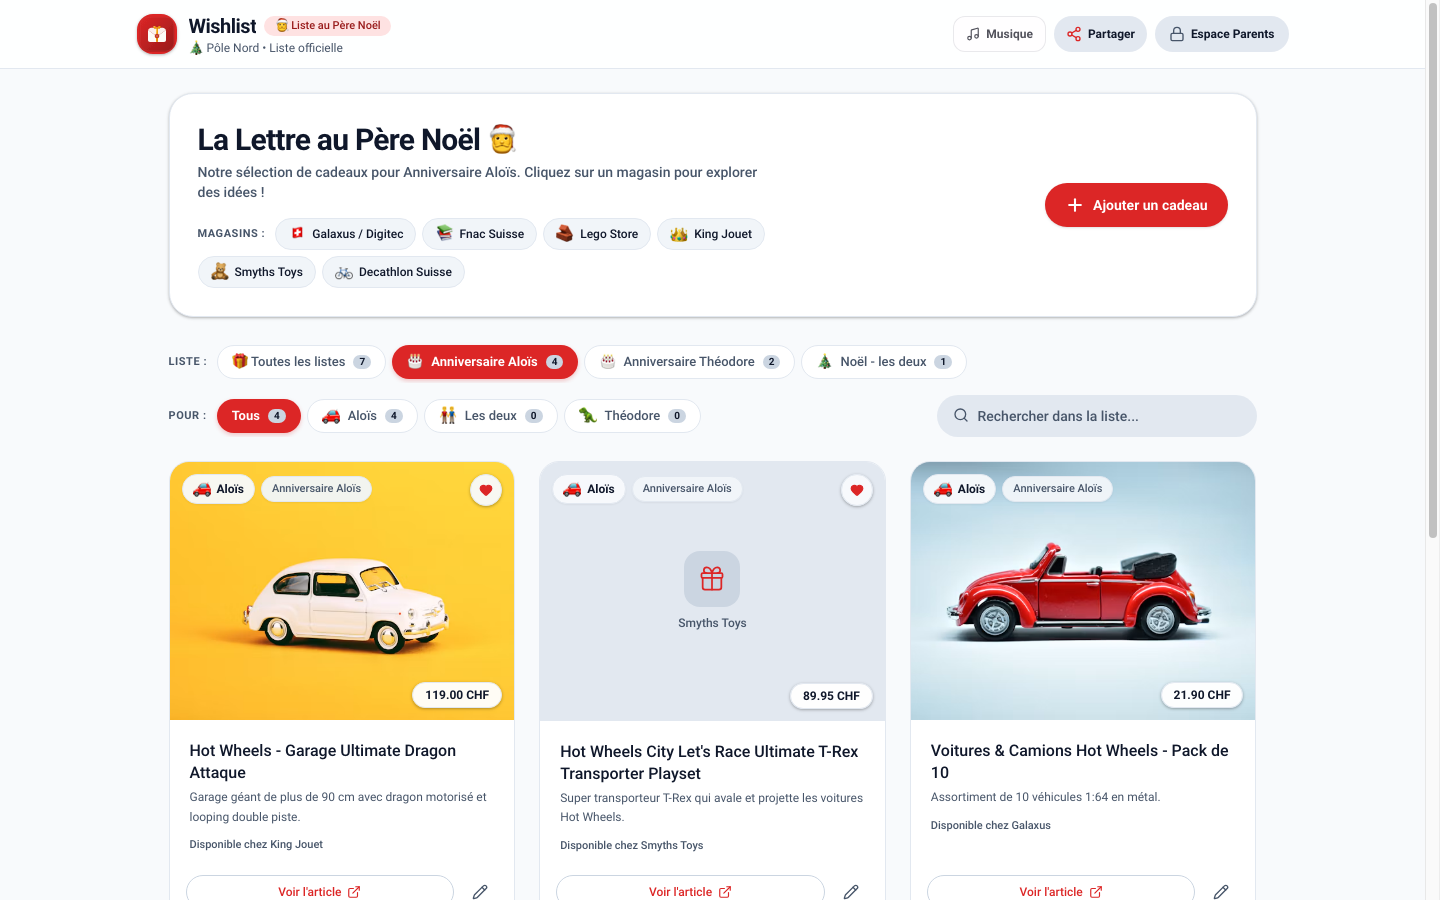
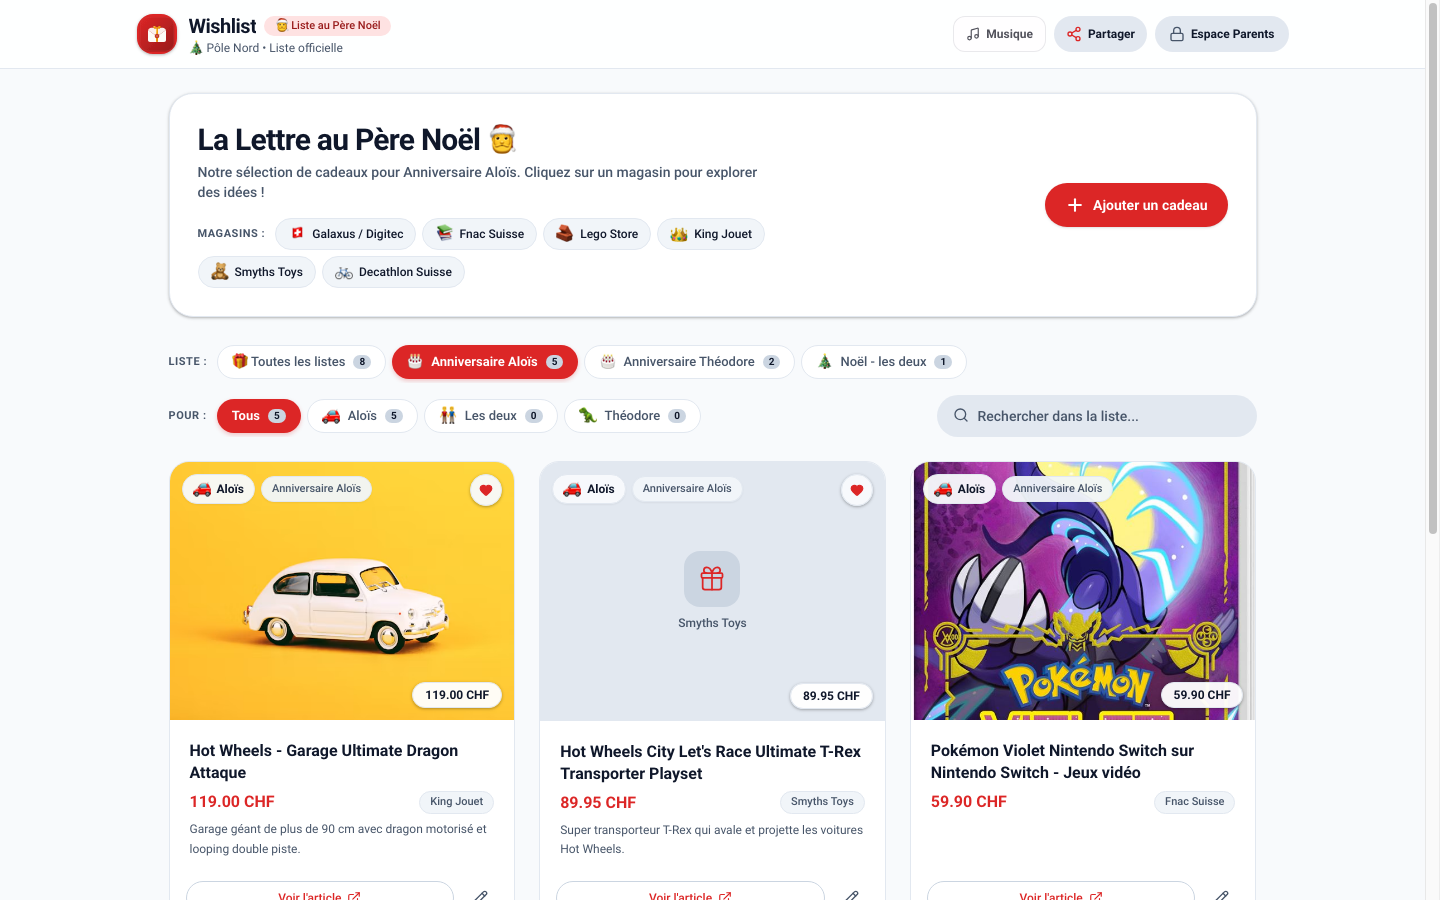
fix(shared): position reserved items at bottom and display prominent prices across all cards

diff --git a/src/app/partage/[token]/page.tsx b/src/app/partage/[token]/page.tsx
@@ -75,6 +75,13 @@ export default function FamilySharePage({ params }: { params: Promise<{ token: s
     return matchChild && matchOccasion;
   });
 
+  // Put non-reserved items first, reserved items below
+  const isGiftReserved = (g: Gift) =>
+    g.status === 'reserved' || g.status === 'bought' || g.status === 'received' || Boolean(g.reserved_by);
+
+  const availableGifts = filteredGifts.filter((g) => !isGiftReserved(g));
+  const reservedGifts = filteredGifts.filter((g) => isGiftReserved(g));
+
   if (loading) {
     return (
       <div className="min-h-screen flex items-center justify-center p-4">
@@ -185,20 +192,30 @@ export default function FamilySharePage({ params }: { params: Promise<{ token: s
           </div>
         </div>
 
-        {/* Gift Grid */}
-        {filteredGifts.length > 0 ? (
-          <div className="grid grid-cols-1 sm:grid-cols-2 lg:grid-cols-3 gap-6">
-            {filteredGifts.map((gift) => (
-              <GiftCard
-                key={gift.id}
-                gift={gift}
-                mode="family"
-                onReserveClick={(g) => setSelectedGiftToReserve(g)}
-                onUnreserveClick={handleUnreserve}
-              />
-            ))}
+        {/* Available Gifts Section (Non-réservés en premier) */}
+        {availableGifts.length > 0 ? (
+          <div className="space-y-4">
+            <div className="flex items-center justify-between">
+              <span className="text-xs font-semibold text-[var(--md-sys-color-on-surface-variant)] uppercase tracking-wider">
+                🎁 Idées cadeaux disponibles ({availableGifts.length})
+              </span>
+              <span className="text-xs text-emerald-800 dark:text-emerald-300 font-medium hidden sm:inline">
+                Cliquez sur « Je m&apos;en occupe » pour choisir
+              </span>
+            </div>
+            <div className="grid grid-cols-1 sm:grid-cols-2 lg:grid-cols-3 gap-6">
+              {availableGifts.map((gift) => (
+                <GiftCard
+                  key={gift.id}
+                  gift={gift}
+                  mode="family"
+                  onReserveClick={(g) => setSelectedGiftToReserve(g)}
+                  onUnreserveClick={handleUnreserve}
+                />
+              ))}
+            </div>
           </div>
-        ) : (
+        ) : filteredGifts.length === 0 ? (
           <div className="bg-white dark:bg-zinc-900 rounded-3xl p-12 text-center max-w-md mx-auto space-y-3 border border-zinc-200/80 dark:border-zinc-800 shadow-xs">
             <div className="w-14 h-14 rounded-2xl bg-zinc-100 dark:bg-zinc-800 text-zinc-400 flex items-center justify-center mx-auto">
               <GiftIcon className="w-6 h-6 stroke-[1.5]" />
@@ -209,6 +226,44 @@ export default function FamilySharePage({ params }: { params: Promise<{ token: s
             <p className="text-xs text-zinc-500 dark:text-zinc-400">
               Les parents ajouteront bientôt les envies pour cette occasion.
             </p>
+          </div>
+        ) : (
+          <div className="p-6 rounded-2xl bg-emerald-500/10 border border-emerald-500/20 text-center space-y-1">
+            <p className="text-sm font-bold text-emerald-900 dark:text-emerald-200">
+              🎉 Tous les cadeaux de cette sélection sont déjà réservés !
+            </p>
+            <p className="text-xs text-emerald-800/80 dark:text-emerald-300/80">
+              Merci à toute la famille pour votre générosité. Retrouvez le détail des réservations ci-dessous.
+            </p>
+          </div>
+        )}
+
+        {/* Reserved Gifts Section (Réservés placés EN DESSOUS) */}
+        {reservedGifts.length > 0 && (
+          <div className="pt-8 border-t border-[var(--md-sys-color-outline-variant)] space-y-4">
+            <div className="flex flex-col sm:flex-row sm:items-center justify-between gap-1">
+              <div className="flex items-center gap-2">
+                <span className="w-2.5 h-2.5 rounded-full bg-emerald-700" />
+                <h3 className="text-xs font-semibold text-[var(--md-sys-color-on-surface-variant)] uppercase tracking-wider">
+                  Cadeaux déjà réservés ({reservedGifts.length})
+                </h3>
+              </div>
+              <span className="text-xs text-[var(--md-sys-color-on-surface-variant)] opacity-70">
+                Ces cadeaux ont déjà trouvé leur Père Noël
+              </span>
+            </div>
+
+            <div className="grid grid-cols-1 sm:grid-cols-2 lg:grid-cols-3 gap-6 opacity-85">
+              {reservedGifts.map((gift) => (
+                <GiftCard
+                  key={gift.id}
+                  gift={gift}
+                  mode="family"
+                  onReserveClick={(g) => setSelectedGiftToReserve(g)}
+                  onUnreserveClick={handleUnreserve}
+                />
+              ))}
+            </div>
           </div>
         )}
       </main>

diff --git a/src/components/GiftCard.tsx b/src/components/GiftCard.tsx
@@ -26,6 +26,20 @@ export default function GiftCard({
 }: GiftCardProps) {
   const [imageError, setImageError] = useState(false);
 
+  // Safe price calculation (handles number, string, null, undefined)
+  const rawPrice = gift.price;
+  let numericPrice: number | null = null;
+  if (typeof rawPrice === 'number' && !isNaN(rawPrice)) {
+    numericPrice = rawPrice;
+  } else if (typeof rawPrice === 'string' && (rawPrice as string).trim() !== '') {
+    const p = parseFloat((rawPrice as string).replace(',', '.').replace(/[^0-9.]/g, ''));
+    if (!isNaN(p)) numericPrice = p;
+  }
+  const currency = gift.currency || 'CHF';
+  const formattedPrice = numericPrice !== null && numericPrice > 0
+    ? `${numericPrice.toFixed(2)} ${currency}`
+    : null;
+
   const statusBadge = () => {
     switch (gift.status) {
       case 'bought':
@@ -103,20 +117,50 @@ export default function GiftCard({
             </div>
           )}
 
-          {/* Price Tag Chip */}
-          {gift.price !== null && gift.price !== undefined && (
-            <div className="absolute bottom-3 right-3 px-3 py-1 rounded-full bg-[var(--md-sys-color-surface-container-lowest)]/95 text-[var(--md-sys-color-on-surface)] text-xs font-semibold shadow-[var(--md-elevation-1)] border border-[var(--md-sys-color-outline-variant)]">
-              {gift.price.toFixed(2)} {gift.currency}
+          {/* Price Tag Chip on Image */}
+          {formattedPrice && (
+            <div className="absolute bottom-3 right-3 px-3 py-1 rounded-full bg-[var(--md-sys-color-surface-container-lowest)]/95 text-[var(--md-sys-color-on-surface)] text-xs font-bold shadow-[var(--md-elevation-1)] border border-[var(--md-sys-color-outline-variant)]">
+              {formattedPrice}
             </div>
           )}
         </div>
 
         {/* Card Content */}
-        <div className="p-4 sm:p-5 space-y-2">
+        <div className="p-4 sm:p-5 space-y-2.5">
           <div>
-            <h4 className="font-medium text-base text-[var(--md-sys-color-on-surface)] leading-snug">
+            <h4 className="font-semibold text-base text-[var(--md-sys-color-on-surface)] leading-snug">
               {gift.title}
             </h4>
+
+            {/* Prominent Price & Store Row */}
+            <div className="flex items-center justify-between gap-2 pt-1.5 pb-0.5">
+              {formattedPrice ? (
+                <div className="inline-flex items-baseline gap-1">
+                  <span className="text-base font-extrabold text-[var(--md-sys-color-primary)]">
+                    {formattedPrice}
+                  </span>
+                </div>
+              ) : (
+                <div className="inline-flex items-center gap-1.5 text-xs text-[var(--md-sys-color-on-surface-variant)] italic">
+                  <span>Prix non renseigné</span>
+                  {onEdit && (
+                    <button
+                      type="button"
+                      onClick={() => onEdit(gift)}
+                      className="text-[11px] font-semibold text-[var(--md-sys-color-primary)] hover:underline not-italic cursor-pointer"
+                    >
+                      + Ajouter
+                    </button>
+                  )}
+                </div>
+              )}
+
+              {gift.store_name && (
+                <span className="text-[11px] font-medium text-[var(--md-sys-color-on-surface-variant)] px-2.5 py-0.5 rounded-full bg-[var(--md-sys-color-surface-container)] border border-[var(--md-sys-color-outline-variant)] truncate max-w-[140px]">
+                  {gift.store_name}
+                </span>
+              )}
+            </div>
 
             {gift.description && (
               <p className="text-xs text-[var(--md-sys-color-on-surface-variant)] line-clamp-2 leading-relaxed mt-1">
@@ -124,13 +168,6 @@ export default function GiftCard({
               </p>
             )}
           </div>
-
-          {/* Store reference */}
-          {gift.store_name && (
-            <div className="text-[11px] text-[var(--md-sys-color-on-surface-variant)] font-medium pt-0.5">
-              Disponible chez {gift.store_name}
-            </div>
-          )}
 
           {/* PARENT MODE SECRET STATS */}
           {mode === 'parent' && (

diff --git a/src/components/AddGiftModal.tsx b/src/components/AddGiftModal.tsx
@@ -86,6 +86,7 @@ export default function AddGiftModal({
   const [storeName, setStoreName] = useState('');
   const [price, setPrice] = useState<string>('');
   const [priority, setPriority] = useState<number>(2);
+  const [itemPrices, setItemPrices] = useState<Record<string, string>>({});
 
   useEffect(() => {
     if (isOpen) {
@@ -146,6 +147,14 @@ export default function AddGiftModal({
     setError(null);
 
     try {
+      const customPriceStr = itemPrices[product.id];
+      const parsedCustom = customPriceStr && customPriceStr.trim() !== ''
+        ? parseFloat(customPriceStr.replace(',', '.'))
+        : null;
+      const finalPrice = parsedCustom !== null && !isNaN(parsedCustom)
+        ? parsedCustom
+        : (product.price || null);
+
       const res = await fetch('/api/gifts', {
         method: 'POST',
         headers: { 'Content-Type': 'application/json' },
@@ -156,7 +165,7 @@ export default function AddGiftModal({
           image_url: product.image_url,
           product_url: product.product_url,
           store_name: product.store_name,
-          price: product.price,
+          price: finalPrice,
           currency: 'CHF',
           priority: 2,
         }),
@@ -182,7 +191,8 @@ export default function AddGiftModal({
     setImageUrl(product.image_url);
     setProductUrl(product.product_url);
     setStoreName(product.store_name);
-    setPrice(product.price ? product.price.toString() : '');
+    const customPrice = itemPrices[product.id];
+    setPrice(customPrice !== undefined ? customPrice : (product.price ? product.price.toString() : ''));
     setTab('manual');
   };
 
@@ -530,6 +540,23 @@ export default function AddGiftModal({
                             >
                               {product.title}
                             </h4>
+
+                            {/* Quick Price Input */}
+                            <div className="flex items-center gap-1.5 mt-2">
+                              <span className="text-[10px] font-semibold text-[var(--md-sys-color-on-surface-variant)] uppercase">Prix :</span>
+                              <div className="relative inline-flex items-center">
+                                <input
+                                  type="number"
+                                  step="0.05"
+                                  placeholder={product.price ? `${product.price.toFixed(2)}` : "ex: 29.90"}
+                                  value={itemPrices[product.id] ?? (product.price ? String(product.price) : '')}
+                                  onChange={(e) => setItemPrices({ ...itemPrices, [product.id]: e.target.value })}
+                                  onClick={(e) => e.stopPropagation()}
+                                  className="w-24 px-2 py-0.5 rounded-lg text-xs font-bold bg-[var(--md-sys-color-surface-container)] border border-[var(--md-sys-color-outline-variant)] text-[var(--md-sys-color-primary)] outline-none focus:border-[var(--md-sys-color-primary)]"
+                                />
+                                <span className="text-[10px] text-[var(--md-sys-color-on-surface-variant)] font-bold ml-1">CHF</span>
+                              </div>
+                            </div>
                           </div>
                         </div>
 

diff --git a/src/components/EditGiftModal.tsx b/src/components/EditGiftModal.tsx
@@ -65,7 +65,9 @@ export default function EditGiftModal({
     setError(null);
 
     try {
-      const parsedPrice = price.trim() ? parseFloat(price.replace(',', '.')) : null;
+      const cleanPriceStr = price.trim().replace(',', '.');
+      const parsedPrice = cleanPriceStr !== '' ? parseFloat(cleanPriceStr) : null;
+      const finalPrice = parsedPrice !== null && !isNaN(parsedPrice) && parsedPrice >= 0 ? parsedPrice : null;
 
       const res = await fetch('/api/gifts', {
         method: 'PUT',
@@ -76,7 +78,8 @@ export default function EditGiftModal({
           occasion_id: occasionId,
           title: title.trim(),
           description: description.trim() || null,
-          price: !isNaN(parsedPrice as number) ? parsedPrice : null,
+          price: finalPrice,
+          currency: 'CHF',
           priority,
           is_favorite: priority === 3 ? 1 : 0,
           store_name: storeName.trim() || null,

diff --git a/src/app/api/gifts/route.ts b/src/app/api/gifts/route.ts
@@ -91,7 +91,14 @@ export async function PUT(req: NextRequest) {
         setClauses.push(`${field} = ?`);
         let val = updates[field];
         if (field === 'is_favorite') val = val ? 1 : 0;
-        if (field === 'price') val = val ? parseFloat(val) : null;
+        if (field === 'price') {
+          if (val === null || val === undefined || val === '') {
+            val = null;
+          } else {
+            const p = parseFloat(String(val).replace(',', '.'));
+            val = !isNaN(p) && p >= 0 ? p : null;
+          }
+        }
         if (field === 'product_url' || field === 'image_url') val = sanitizeHttpUrl(val as string);
         values.push(val);
       }
